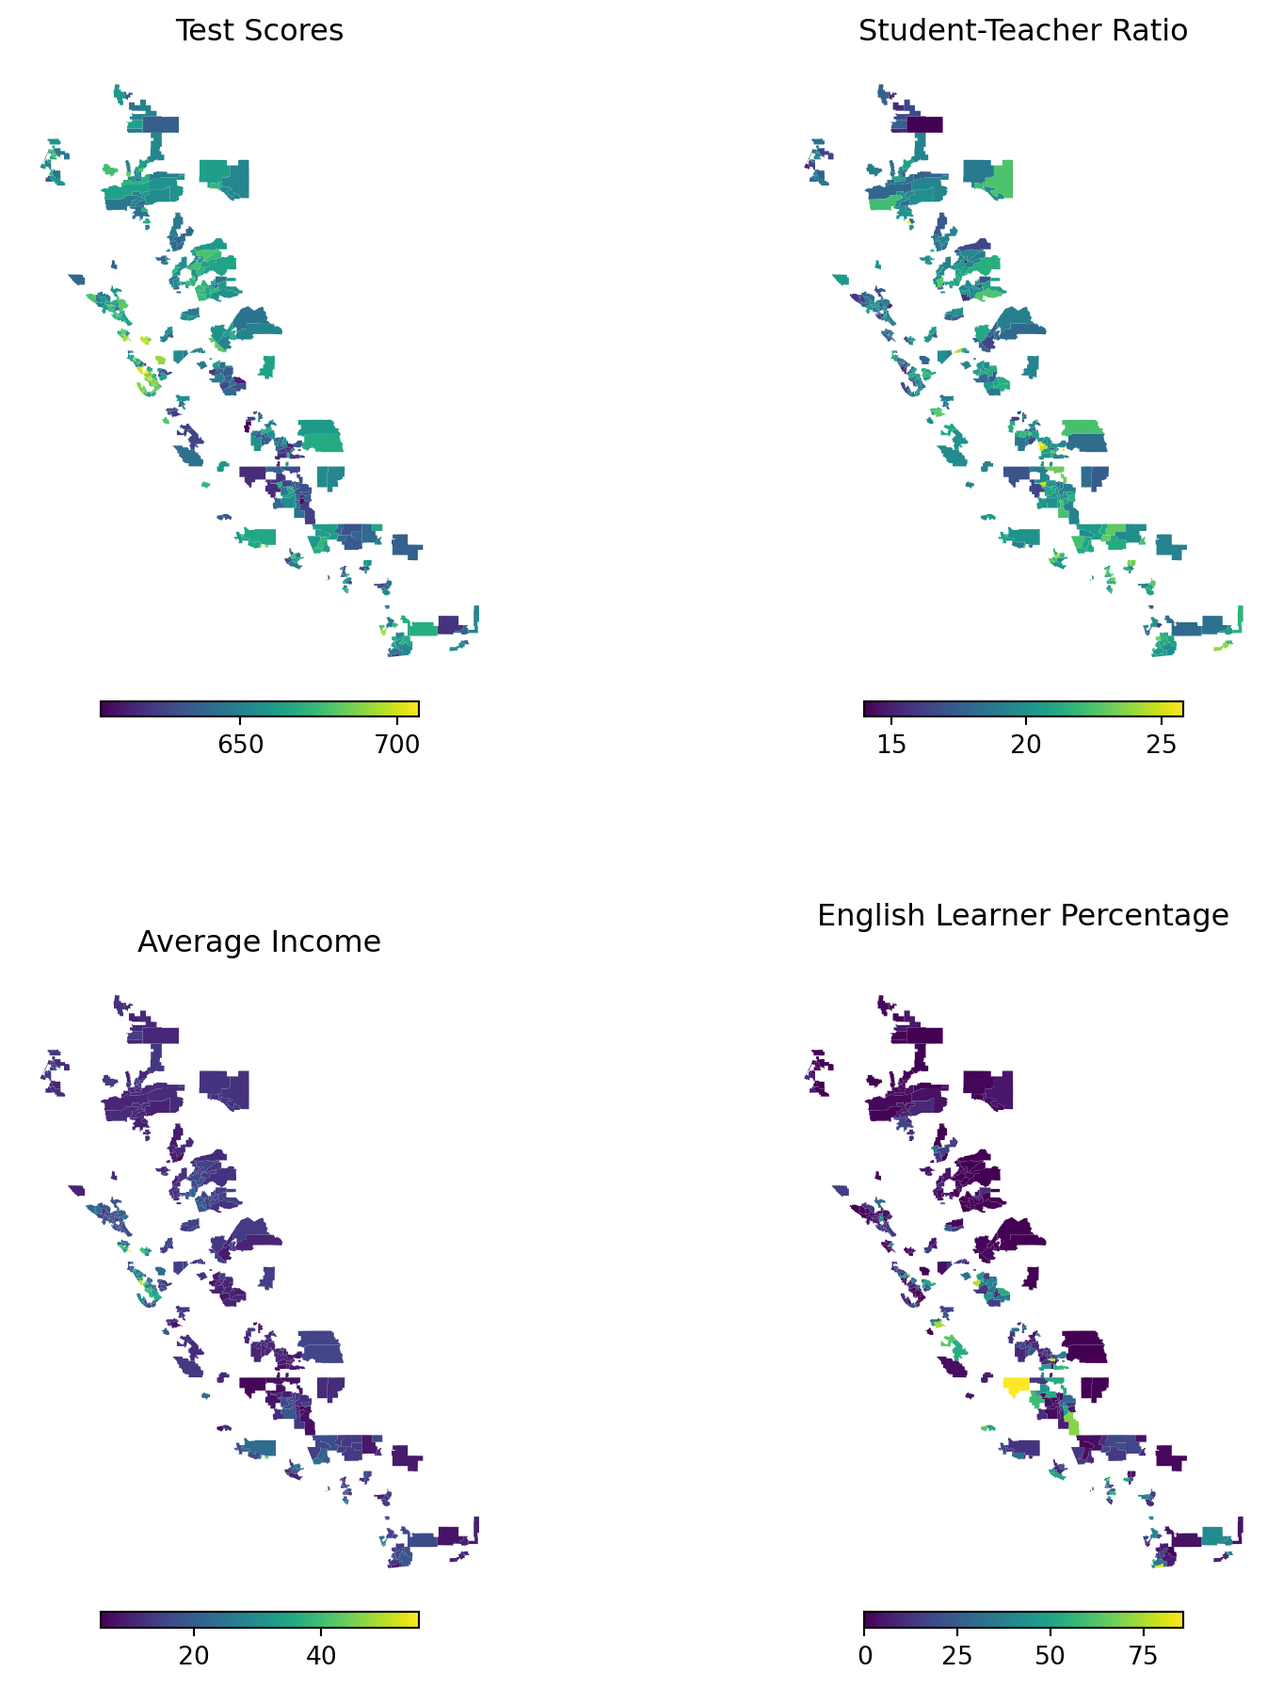
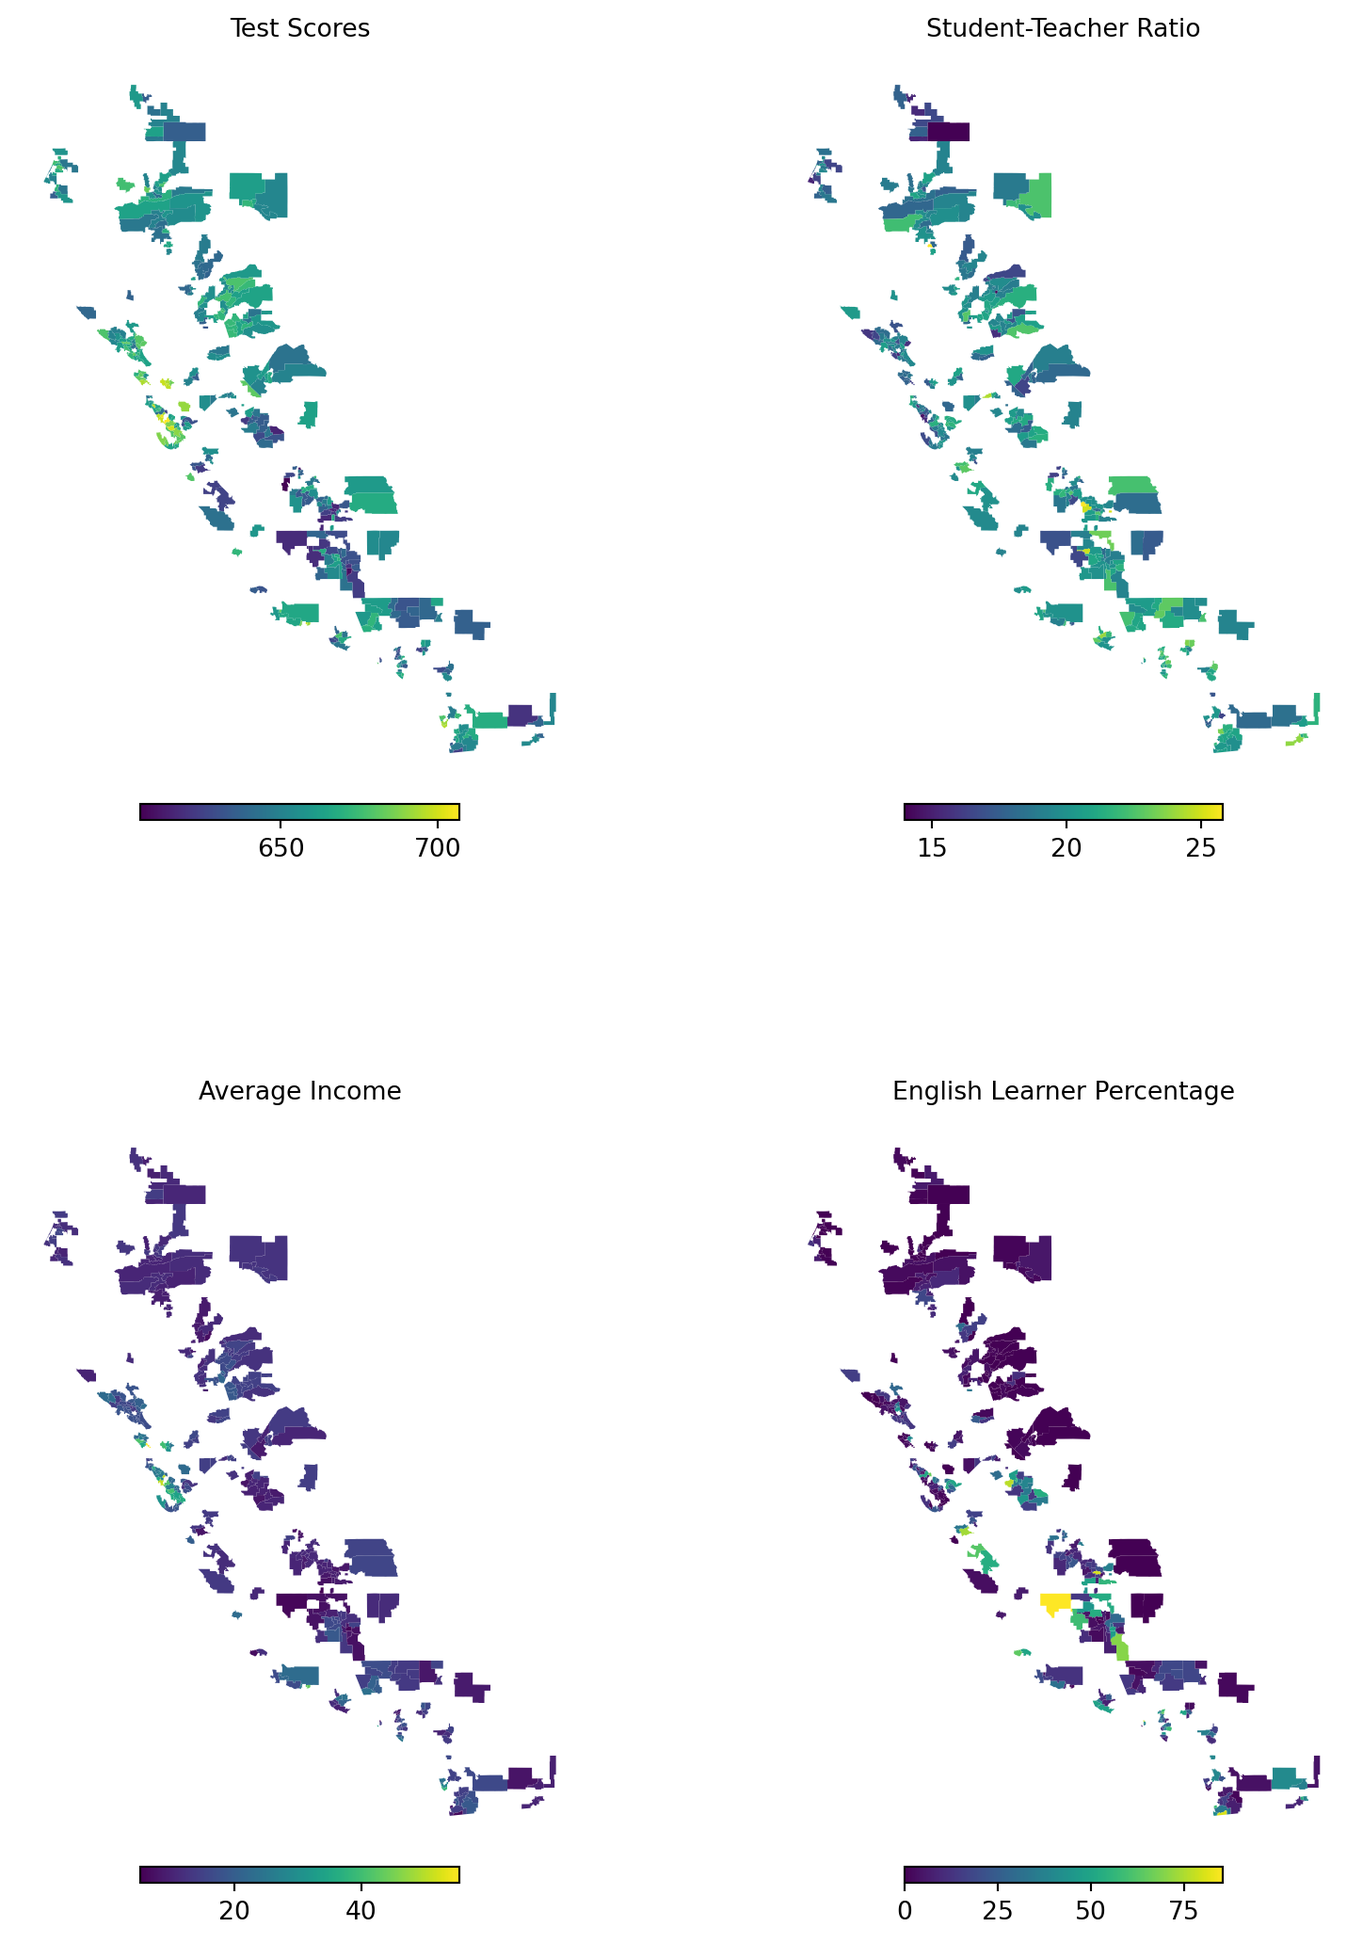
Append A is updated.

diff --git a/docs/AppendixA.html b/docs/AppendixA.html
@@ -517,7 +517,7 @@ window.Quarto = {
 </header>
 
 
-<div id="d87ed3d5" class="cell" data-execution_count="1">
+<div id="11b53a9d" class="cell" data-execution_count="1">
 <div class="sourceCode cell-code" id="cb1"><pre class="sourceCode python code-with-copy"><code class="sourceCode python"><span id="cb1-1"><a href="#cb1-1" aria-hidden="true" tabindex="-1"></a><span class="im">import</span> numpy <span class="im">as</span> np</span>
 <span id="cb1-2"><a href="#cb1-2" aria-hidden="true" tabindex="-1"></a><span class="im">import</span> pandas <span class="im">as</span> pd</span>
 <span id="cb1-3"><a href="#cb1-3" aria-hidden="true" tabindex="-1"></a><span class="im">import</span> matplotlib.pyplot <span class="im">as</span> plt</span>
@@ -529,11 +529,11 @@ window.Quarto = {
 <h2 data-number="A.1" class="anchored" data-anchor-id="sec-CaschoolsData"><span class="header-section-number">A.1</span> The California School Districts Dataset</h2>
 <p>In this section, we first generate a map showing the geographical boundaries of all school districts in California. We then provide choropleth maps illustrating how various characteristics are distributed across these districts.</p>
 <p>Recall that our dataset in the <code>caschool.csv</code> file contains information on kindergarten through eighth-grade students across 420 California school districts (K-6 and K-8 districts) in 1999. The column names are given below:</p>
-<div id="c2feab59" class="cell" data-execution_count="2">
+<div id="580fe2ff" class="cell" data-execution_count="2">
 <div class="sourceCode cell-code" id="cb2"><pre class="sourceCode python code-with-copy"><code class="sourceCode python"><span id="cb2-1"><a href="#cb2-1" aria-hidden="true" tabindex="-1"></a><span class="co"># Column names</span></span>
 <span id="cb2-2"><a href="#cb2-2" aria-hidden="true" tabindex="-1"></a>CAschool<span class="op">=</span>pd.read_csv(<span class="st">'data/caschool.csv'</span>)</span>
 <span id="cb2-3"><a href="#cb2-3" aria-hidden="true" tabindex="-1"></a>CAschool.columns</span></code><button title="Copy to Clipboard" class="code-copy-button"><i class="bi"></i></button></pre></div>
-<div class="cell-output cell-output-display" data-execution_count="2">
+<div class="cell-output cell-output-display" data-execution_count="34">
 <pre><code>Index(['Observation Number', 'dist_cod', 'county', 'district', 'gr_span',
        'enrl_tot', 'teachers', 'calw_pct', 'meal_pct', 'computer', 'testscr',
        'comp_stu', 'expn_stu', 'str', 'avginc', 'el_pct', 'read_scr',
@@ -542,11 +542,11 @@ window.Quarto = {
 </div>
 </div>
 <p>To map the school districts, we use the shapefile <code>California_School_District_Areas_2024-25.shp</code>, obtained from the <a href="https://data-cdegis.opendata.arcgis.com/">California Department of Education</a> website. This shapefile contains geographical boundaries for all school districts in California for the 2024-25 academic year.</p>
-<div id="65856db9" class="cell" data-execution_count="3">
+<div id="59b687ed" class="cell" data-execution_count="3">
 <div class="sourceCode cell-code" id="cb4"><pre class="sourceCode python code-with-copy"><code class="sourceCode python"><span id="cb4-1"><a href="#cb4-1" aria-hidden="true" tabindex="-1"></a><span class="co"># Load shapefile</span></span>
 <span id="cb4-2"><a href="#cb4-2" aria-hidden="true" tabindex="-1"></a>gdf <span class="op">=</span> gpd.read_file(<span class="st">"data/California_School_District_Areas_2024-25.shp"</span>)</span>
 <span id="cb4-3"><a href="#cb4-3" aria-hidden="true" tabindex="-1"></a>gdf.columns</span></code><button title="Copy to Clipboard" class="code-copy-button"><i class="bi"></i></button></pre></div>
-<div class="cell-output cell-output-display" data-execution_count="3">
+<div class="cell-output cell-output-display" data-execution_count="35">
 <pre><code>Index(['OBJECTID', 'Year', 'FedID', 'CDCode', 'CDSCode', 'CountyName',
        'DistrictNa', 'DistrictTy', 'GradeLow', 'GradeHigh', 'GradeLowCe',
        'GradeHighC', 'AssistStat', 'CongressUS', 'SenateCA', 'AssemblyCA',
@@ -586,15 +586,15 @@ Figure&nbsp;A.1: California School Districts
 </div>
 </div>
 <p>The total number of school districts in the shapefile is given by:</p>
-<div id="d87379df" class="cell" data-execution_count="5">
+<div id="f962a78f" class="cell" data-execution_count="5">
 <div class="sourceCode cell-code" id="cb7"><pre class="sourceCode python code-with-copy"><code class="sourceCode python"><span id="cb7-1"><a href="#cb7-1" aria-hidden="true" tabindex="-1"></a><span class="co"># Number of school districts in shapefile</span></span>
 <span id="cb7-2"><a href="#cb7-2" aria-hidden="true" tabindex="-1"></a><span class="bu">len</span>(gdf)</span></code><button title="Copy to Clipboard" class="code-copy-button"><i class="bi"></i></button></pre></div>
-<div class="cell-output cell-output-display" data-execution_count="5">
+<div class="cell-output cell-output-display" data-execution_count="37">
 <pre><code>937</code></pre>
 </div>
 </div>
 <p>However, not all school districts in the shapefile are present in the <code>caschool.csv</code> dataset. To identify the school districts common to both datasets, we perform an inner merge based on the district codes. The <code>dist_cod</code> column in <code>caschool.csv</code> represents the unique identifier for each school district, while in the shapefile the corresponding column is <code>CDCode</code> (the last five digits). We use these columns to merge our dataset with the <code>gdf</code> dataframe.</p>
-<div id="e7ce42e7" class="cell" data-execution_count="6">
+<div id="1cb4119f" class="cell" data-execution_count="6">
 <div class="sourceCode cell-code" id="cb9"><pre class="sourceCode python code-with-copy"><code class="sourceCode python"><span id="cb9-1"><a href="#cb9-1" aria-hidden="true" tabindex="-1"></a><span class="co"># Take last five digits of district CDCode in shapefile</span></span>
 <span id="cb9-2"><a href="#cb9-2" aria-hidden="true" tabindex="-1"></a>gdf[<span class="st">"CDCode_str"</span>] <span class="op">=</span> gdf[<span class="st">"CDCode"</span>].astype(<span class="bu">str</span>).<span class="bu">str</span>[<span class="op">-</span><span class="dv">5</span>:]</span>
 <span id="cb9-3"><a href="#cb9-3" aria-hidden="true" tabindex="-1"></a><span class="co"># Make district code in data string</span></span>
@@ -605,7 +605,7 @@ Figure&nbsp;A.1: California School Districts
 <p>In the next figure, we create choropleth maps to show how variables of interest are distributed across California school districts. We consider the average test scores (<code>testscr</code>), the student-teacher ratio (<code>str</code>), the average district income (<code>avginc</code>), and the percentage of English learners (<code>el_pct</code>) in the districts.</p>
 <div id="cell-fig-ChoroplethMaps" class="cell" data-execution_count="7">
 <div class="sourceCode cell-code" id="cb10"><pre class="sourceCode python code-with-copy"><code class="sourceCode python"><span id="cb10-1"><a href="#cb10-1" aria-hidden="true" tabindex="-1"></a><span class="co"># Choropleth Maps of School District Characteristics</span></span>
-<span id="cb10-2"><a href="#cb10-2" aria-hidden="true" tabindex="-1"></a>fig, axs <span class="op">=</span> plt.subplots(<span class="dv">2</span>, <span class="dv">2</span>, figsize<span class="op">=</span>(<span class="dv">10</span>, <span class="dv">12</span>))</span>
+<span id="cb10-2"><a href="#cb10-2" aria-hidden="true" tabindex="-1"></a>fig, axs <span class="op">=</span> plt.subplots(<span class="dv">2</span>, <span class="dv">2</span>, figsize<span class="op">=</span>(<span class="dv">10</span>, <span class="dv">14</span>))</span>
 <span id="cb10-3"><a href="#cb10-3" aria-hidden="true" tabindex="-1"></a><span class="co"># Test Scores</span></span>
 <span id="cb10-4"><a href="#cb10-4" aria-hidden="true" tabindex="-1"></a>merged_gdf.plot(column<span class="op">=</span><span class="st">"testscr"</span>, ax<span class="op">=</span>axs[<span class="dv">0</span>, <span class="dv">0</span>], cmap<span class="op">=</span><span class="st">"viridis"</span>, </span>
 <span id="cb10-5"><a href="#cb10-5" aria-hidden="true" tabindex="-1"></a>              legend<span class="op">=</span><span class="va">True</span>,</span>
@@ -615,7 +615,7 @@ Figure&nbsp;A.1: California School Districts
 <span id="cb10-9"><a href="#cb10-9" aria-hidden="true" tabindex="-1"></a>                <span class="st">"pad"</span>: <span class="fl">0.02</span>,</span>
 <span id="cb10-10"><a href="#cb10-10" aria-hidden="true" tabindex="-1"></a>                <span class="st">"orientation"</span>: <span class="st">"horizontal"</span></span>
 <span id="cb10-11"><a href="#cb10-11" aria-hidden="true" tabindex="-1"></a>              })</span>
-<span id="cb10-12"><a href="#cb10-12" aria-hidden="true" tabindex="-1"></a>axs[<span class="dv">0</span>, <span class="dv">0</span>].set_title(<span class="st">"Test Scores"</span>)</span>
+<span id="cb10-12"><a href="#cb10-12" aria-hidden="true" tabindex="-1"></a>axs[<span class="dv">0</span>, <span class="dv">0</span>].set_title(<span class="st">"Test Scores"</span>, fontsize<span class="op">=</span><span class="dv">10</span>)</span>
 <span id="cb10-13"><a href="#cb10-13" aria-hidden="true" tabindex="-1"></a>axs[<span class="dv">0</span>, <span class="dv">0</span>].axis(<span class="st">'off'</span>)</span>
 <span id="cb10-14"><a href="#cb10-14" aria-hidden="true" tabindex="-1"></a><span class="co"># Student-Teacher Ratio</span></span>
 <span id="cb10-15"><a href="#cb10-15" aria-hidden="true" tabindex="-1"></a>merged_gdf.plot(column<span class="op">=</span><span class="st">"str"</span>, ax<span class="op">=</span>axs[<span class="dv">0</span>, <span class="dv">1</span>], cmap<span class="op">=</span><span class="st">"viridis"</span>, </span>
@@ -626,7 +626,7 @@ Figure&nbsp;A.1: California School Districts
 <span id="cb10-20"><a href="#cb10-20" aria-hidden="true" tabindex="-1"></a>                <span class="st">"pad"</span>: <span class="fl">0.02</span>,</span>
 <span id="cb10-21"><a href="#cb10-21" aria-hidden="true" tabindex="-1"></a>                <span class="st">"orientation"</span>: <span class="st">"horizontal"</span></span>
 <span id="cb10-22"><a href="#cb10-22" aria-hidden="true" tabindex="-1"></a>              })</span>
-<span id="cb10-23"><a href="#cb10-23" aria-hidden="true" tabindex="-1"></a>axs[<span class="dv">0</span>, <span class="dv">1</span>].set_title(<span class="st">"Student-Teacher Ratio"</span>)</span>
+<span id="cb10-23"><a href="#cb10-23" aria-hidden="true" tabindex="-1"></a>axs[<span class="dv">0</span>, <span class="dv">1</span>].set_title(<span class="st">"Student-Teacher Ratio"</span>, fontsize<span class="op">=</span><span class="dv">10</span>)</span>
 <span id="cb10-24"><a href="#cb10-24" aria-hidden="true" tabindex="-1"></a>axs[<span class="dv">0</span>, <span class="dv">1</span>].axis(<span class="st">'off'</span>)</span>
 <span id="cb10-25"><a href="#cb10-25" aria-hidden="true" tabindex="-1"></a><span class="co"># Average Income</span></span>
 <span id="cb10-26"><a href="#cb10-26" aria-hidden="true" tabindex="-1"></a>merged_gdf.plot(column<span class="op">=</span><span class="st">"avginc"</span>, ax<span class="op">=</span>axs[<span class="dv">1</span>, <span class="dv">0</span>], cmap<span class="op">=</span><span class="st">"viridis"</span>, </span>
@@ -637,7 +637,7 @@ Figure&nbsp;A.1: California School Districts
 <span id="cb10-31"><a href="#cb10-31" aria-hidden="true" tabindex="-1"></a>                <span class="st">"pad"</span>: <span class="fl">0.02</span>,</span>
 <span id="cb10-32"><a href="#cb10-32" aria-hidden="true" tabindex="-1"></a>                <span class="st">"orientation"</span>: <span class="st">"horizontal"</span></span>
 <span id="cb10-33"><a href="#cb10-33" aria-hidden="true" tabindex="-1"></a>              })</span>
-<span id="cb10-34"><a href="#cb10-34" aria-hidden="true" tabindex="-1"></a>axs[<span class="dv">1</span>, <span class="dv">0</span>].set_title(<span class="st">"Average Income"</span>)</span>
+<span id="cb10-34"><a href="#cb10-34" aria-hidden="true" tabindex="-1"></a>axs[<span class="dv">1</span>, <span class="dv">0</span>].set_title(<span class="st">"Average Income"</span>, fontsize<span class="op">=</span><span class="dv">10</span>)</span>
 <span id="cb10-35"><a href="#cb10-35" aria-hidden="true" tabindex="-1"></a>axs[<span class="dv">1</span>, <span class="dv">0</span>].axis(<span class="st">'off'</span>)</span>
 <span id="cb10-36"><a href="#cb10-36" aria-hidden="true" tabindex="-1"></a><span class="co"># English Learner Percentage</span></span>
 <span id="cb10-37"><a href="#cb10-37" aria-hidden="true" tabindex="-1"></a>merged_gdf.plot(column<span class="op">=</span><span class="st">"el_pct"</span>, ax<span class="op">=</span>axs[<span class="dv">1</span>, <span class="dv">1</span>], cmap<span class="op">=</span><span class="st">"viridis"</span>, </span>
@@ -648,14 +648,14 @@ Figure&nbsp;A.1: California School Districts
 <span id="cb10-42"><a href="#cb10-42" aria-hidden="true" tabindex="-1"></a>                <span class="st">"pad"</span>: <span class="fl">0.02</span>,</span>
 <span id="cb10-43"><a href="#cb10-43" aria-hidden="true" tabindex="-1"></a>                <span class="st">"orientation"</span>: <span class="st">"horizontal"</span></span>
 <span id="cb10-44"><a href="#cb10-44" aria-hidden="true" tabindex="-1"></a>              })</span>
-<span id="cb10-45"><a href="#cb10-45" aria-hidden="true" tabindex="-1"></a>axs[<span class="dv">1</span>, <span class="dv">1</span>].set_title(<span class="st">"English Learner Percentage"</span>)</span>
+<span id="cb10-45"><a href="#cb10-45" aria-hidden="true" tabindex="-1"></a>axs[<span class="dv">1</span>, <span class="dv">1</span>].set_title(<span class="st">"English Learner Percentage"</span>, fontsize<span class="op">=</span><span class="dv">10</span>)</span>
 <span id="cb10-46"><a href="#cb10-46" aria-hidden="true" tabindex="-1"></a>axs[<span class="dv">1</span>, <span class="dv">1</span>].axis(<span class="st">'off'</span>)</span>
 <span id="cb10-47"><a href="#cb10-47" aria-hidden="true" tabindex="-1"></a>plt.show()</span></code><button title="Copy to Clipboard" class="code-copy-button"><i class="bi"></i></button></pre></div>
 <div class="cell-output cell-output-display">
 <div id="fig-choroplethmaps" class="quarto-float quarto-figure quarto-figure-center anchored">
 <figure class="quarto-float quarto-float-fig figure">
 <div aria-describedby="fig-choroplethmaps-caption-0ceaefa1-69ba-4598-a22c-09a6ac19f8ca">
-<img src="AppendixA_files/figure-html/fig-choroplethmaps-output-1.png" width="682" height="897" class="figure-img">
+<img src="AppendixA_files/figure-html/fig-choroplethmaps-output-1.png" width="724" height="1032" class="figure-img">
 </div>
 <figcaption class="quarto-float-caption-bottom quarto-float-caption quarto-float-fig" id="fig-choroplethmaps-caption-0ceaefa1-69ba-4598-a22c-09a6ac19f8ca">
 Figure&nbsp;A.2: Choropleth Maps of School District Characteristics
@@ -664,7 +664,7 @@ Figure&nbsp;A.2: Choropleth Maps of School District Characteristics
 </div>
 </div>
 </div>
-<p>Finally, we create choropleth maps for two assistance programs: the percentage of students eligible for free or reduced-price lunch (<code>meal_pct</code>) and the percentage of students receiving CalWORKs assistance (<code>calw_pct</code>).</p>
+<p>Finally, we create choropleth maps for the percentage of students eligible for free or reduced-price lunch (<code>meal_pct</code>) and the percentage of students receiving CalWORKs assistance (<code>calw_pct</code>).</p>
 <div id="cell-fig-AssistancePrograms" class="cell" data-execution_count="8">
 <div class="sourceCode cell-code" id="cb11"><pre class="sourceCode python code-with-copy"><code class="sourceCode python"><span id="cb11-1"><a href="#cb11-1" aria-hidden="true" tabindex="-1"></a><span class="co"># Choropleth Maps of Assistance Programs</span></span>
 <span id="cb11-2"><a href="#cb11-2" aria-hidden="true" tabindex="-1"></a><span class="co"># Meal Percentage</span></span>
@@ -677,7 +677,7 @@ Figure&nbsp;A.2: Choropleth Maps of School District Characteristics
 <span id="cb11-9"><a href="#cb11-9" aria-hidden="true" tabindex="-1"></a>                <span class="st">"pad"</span>: <span class="fl">0.02</span>,</span>
 <span id="cb11-10"><a href="#cb11-10" aria-hidden="true" tabindex="-1"></a>                <span class="st">"orientation"</span>: <span class="st">"horizontal"</span></span>
 <span id="cb11-11"><a href="#cb11-11" aria-hidden="true" tabindex="-1"></a>              })</span>
-<span id="cb11-12"><a href="#cb11-12" aria-hidden="true" tabindex="-1"></a>axs[<span class="dv">0</span>].set_title(<span class="st">"Free or Reduced-Price Lunch Percentage"</span>)</span>
+<span id="cb11-12"><a href="#cb11-12" aria-hidden="true" tabindex="-1"></a>axs[<span class="dv">0</span>].set_title(<span class="st">"Reduced-Price Lunch Percentage"</span>, fontsize<span class="op">=</span><span class="dv">10</span>)</span>
 <span id="cb11-13"><a href="#cb11-13" aria-hidden="true" tabindex="-1"></a>axs[<span class="dv">0</span>].axis(<span class="st">'off'</span>)</span>
 <span id="cb11-14"><a href="#cb11-14" aria-hidden="true" tabindex="-1"></a><span class="co"># CalWORKs Assistance Percentage</span></span>
 <span id="cb11-15"><a href="#cb11-15" aria-hidden="true" tabindex="-1"></a>merged_gdf.plot(column<span class="op">=</span><span class="st">"calw_pct"</span>, ax<span class="op">=</span>axs[<span class="dv">1</span>], cmap<span class="op">=</span><span class="st">"viridis"</span>, </span>
@@ -688,14 +688,14 @@ Figure&nbsp;A.2: Choropleth Maps of School District Characteristics
 <span id="cb11-20"><a href="#cb11-20" aria-hidden="true" tabindex="-1"></a>                <span class="st">"pad"</span>: <span class="fl">0.02</span>,</span>
 <span id="cb11-21"><a href="#cb11-21" aria-hidden="true" tabindex="-1"></a>                <span class="st">"orientation"</span>: <span class="st">"horizontal"</span></span>
 <span id="cb11-22"><a href="#cb11-22" aria-hidden="true" tabindex="-1"></a>              })</span>
-<span id="cb11-23"><a href="#cb11-23" aria-hidden="true" tabindex="-1"></a>axs[<span class="dv">1</span>].set_title(<span class="st">"CalWORKs Assistance Percentage"</span>)</span>
+<span id="cb11-23"><a href="#cb11-23" aria-hidden="true" tabindex="-1"></a>axs[<span class="dv">1</span>].set_title(<span class="st">"CalWORKs Assistance Percentage"</span>, fontsize<span class="op">=</span><span class="dv">10</span>)</span>
 <span id="cb11-24"><a href="#cb11-24" aria-hidden="true" tabindex="-1"></a>axs[<span class="dv">1</span>].axis(<span class="st">'off'</span>)</span>
 <span id="cb11-25"><a href="#cb11-25" aria-hidden="true" tabindex="-1"></a>plt.show()</span></code><button title="Copy to Clipboard" class="code-copy-button"><i class="bi"></i></button></pre></div>
 <div class="cell-output cell-output-display">
 <div id="fig-assistanceprograms" class="quarto-float quarto-figure quarto-figure-center anchored">
 <figure class="quarto-float quarto-float-fig figure">
 <div aria-describedby="fig-assistanceprograms-caption-0ceaefa1-69ba-4598-a22c-09a6ac19f8ca">
-<img src="AppendixA_files/figure-html/fig-assistanceprograms-output-1.png" width="763" height="537" class="figure-img">
+<img src="AppendixA_files/figure-html/fig-assistanceprograms-output-1.png" width="763" height="521" class="figure-img">
 </div>
 <figcaption class="quarto-float-caption-bottom quarto-float-caption quarto-float-fig" id="fig-assistanceprograms-caption-0ceaefa1-69ba-4598-a22c-09a6ac19f8ca">
 Figure&nbsp;A.3: Choropleth Maps of Assistance Programs
